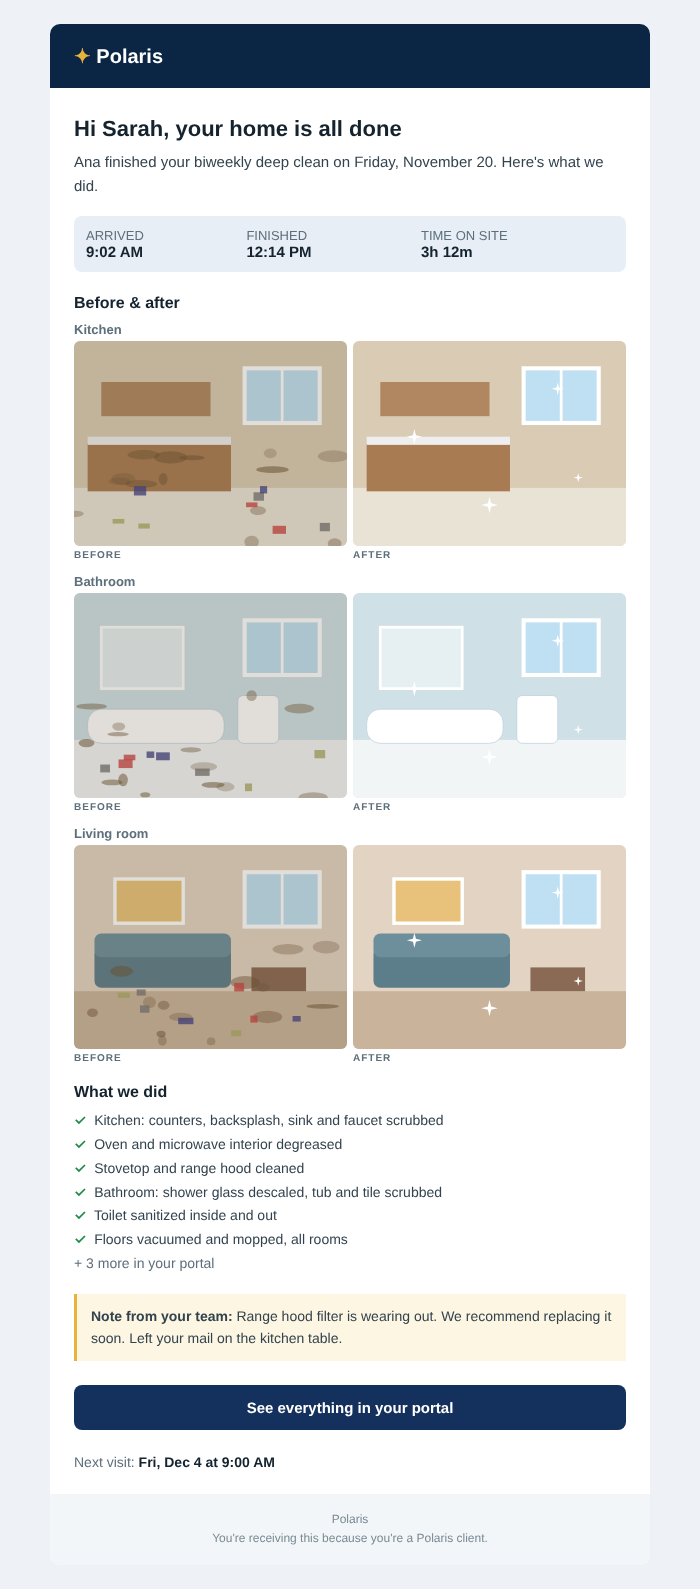
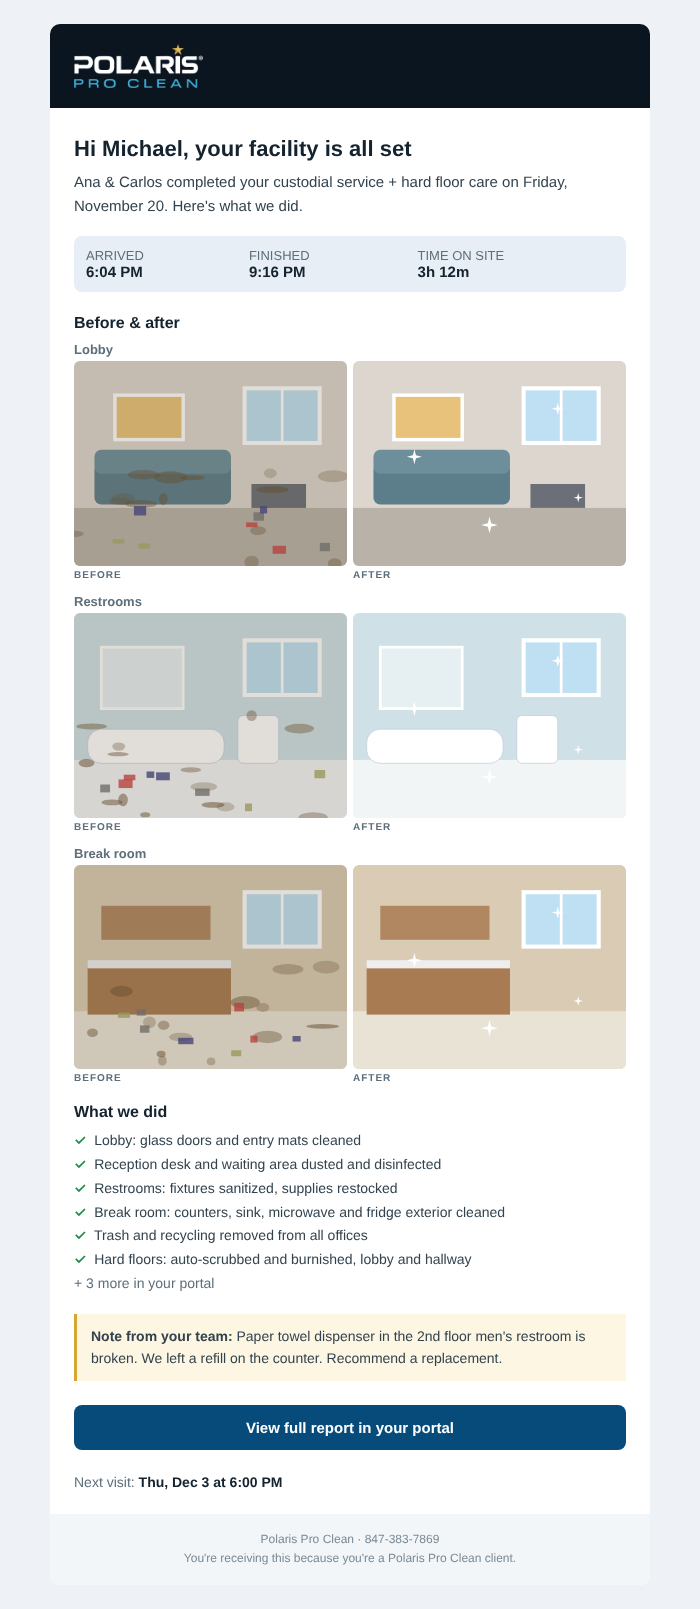
Apply Polaris Pro Clean branding, commercial wording and Chicago time zone
Claude-Session: https://claude.ai/code/session_01B59qdGJ11JK6oNdGcVcDBa

diff --git a/src/lib/demo-data.ts b/src/lib/demo-data.ts
@@ -1,6 +1,7 @@
 import type { PortalData, Photo } from "./types";
 import { sceneUri } from "./demo-scenes";
 
+// Sample commercial client used in demo mode only.
 const photos = (rooms: string[], seed: number): Photo[] =>
   rooms.flatMap((room, i) => [
     { kind: "before" as const, room, url: sceneUri(room, true, seed + i) },
@@ -9,30 +10,30 @@ const photos = (rooms: string[], seed: number): Photo[] =>
 
 export const demoData: PortalData = {
   client: {
-    name: "Sarah Mitchell",
+    name: "Michael Reed · Lakeview Dental Group",
     email: "demo@polaris.example",
-    phone: "(508) 555-0142",
-    address: "84 Pleasant St, Framingham, MA 01701",
-    plan: "Biweekly deep clean",
-    accessNotes: "Lockbox at side door · code on file",
-    preferences: "Unscented products in bedrooms · 1 friendly dog",
-    clientSince: "2025-03-01",
+    phone: "(312) 555-0148",
+    address: "2850 N Clark St, Suite 300, Chicago, IL 60657",
+    plan: "Custodial services · 3x weekly",
+    accessNotes: "Rear entrance, key card #14 · alarm code on file",
+    preferences: "Green-certified products in treatment rooms · do not move items on front desk",
+    clientSince: "2025-04-01",
   },
   visits: [
-    { id: "v7", title: "Biweekly deep clean", status: "scheduled", startsAt: "2026-12-04T14:00:00Z", clockIn: null, clockOut: null, team: "Ana", tasks: [], teamNote: null, photos: [] },
-    { id: "v6", title: "Biweekly deep clean", status: "completed", startsAt: "2026-11-20T14:00:00Z", clockIn: "2026-11-20T14:02:00Z", clockOut: "2026-11-20T17:14:00Z", team: "Ana",
-      tasks: ["Kitchen: counters, backsplash, sink and faucet scrubbed", "Oven and microwave interior degreased", "Stovetop and range hood cleaned", "Bathroom: shower glass descaled, tub and tile scrubbed", "Toilet sanitized inside and out", "Floors vacuumed and mopped, all rooms", "Baseboards dusted, living room", "Beds made with fresh linens (2)", "Trash taken out, bins relined"],
-      teamNote: "Range hood filter is wearing out. We recommend replacing it soon. Left your mail on the kitchen table.",
-      photos: photos(["Kitchen", "Bathroom", "Living room"], 3) },
-    { id: "v5", title: "Biweekly deep clean", status: "completed", startsAt: "2026-11-06T14:00:00Z", clockIn: "2026-11-06T14:00:00Z", clockOut: "2026-11-06T16:48:00Z", team: "Ana",
-      tasks: ["Kitchen counters and sink", "Bathroom full clean", "Floors vacuumed and mopped", "Dusting, all rooms", "Trash out"], teamNote: "All good. Your dog was happy to see us.", photos: photos(["Kitchen", "Bathroom"], 9) },
-    { id: "v4", title: "Deep clean + fridge", status: "completed", startsAt: "2026-10-23T13:00:00Z", clockIn: "2026-10-23T13:10:00Z", clockOut: "2026-10-23T16:30:00Z", team: "Ana",
-      tasks: ["Refrigerator emptied, shelves washed (add-on)", "Kitchen counters and sink", "Bathroom full clean", "Floors vacuumed and mopped", "Windowsills wiped"],
-      teamNote: "Expired items from the fridge are in a bag by the door for you to check.", photos: photos(["Kitchen", "Living room"], 15) },
+    { id: "v7", title: "Custodial service", status: "scheduled", startsAt: "2026-12-04T00:00:00Z", clockIn: null, clockOut: null, team: "Ana & Carlos", tasks: [], teamNote: null, photos: [] },
+    { id: "v6", title: "Custodial service + hard floor care", status: "completed", startsAt: "2026-11-21T00:00:00Z", clockIn: "2026-11-21T00:04:00Z", clockOut: "2026-11-21T03:16:00Z", team: "Ana & Carlos",
+      tasks: ["Lobby: glass doors and entry mats cleaned", "Reception desk and waiting area dusted and disinfected", "Restrooms: fixtures sanitized, supplies restocked", "Break room: counters, sink, microwave and fridge exterior cleaned", "Trash and recycling removed from all offices", "Hard floors: auto-scrubbed and burnished, lobby and hallway", "Carpets vacuumed, offices and conference room", "High-touch points disinfected (handles, switches, elevator buttons)", "Spot cleaning of interior glass partitions"],
+      teamNote: "Paper towel dispenser in the 2nd floor men's restroom is broken. We left a refill on the counter. Recommend a replacement.",
+      photos: photos(["Lobby", "Restrooms", "Break room"], 3) },
+    { id: "v5", title: "Custodial service", status: "completed", startsAt: "2026-11-19T00:00:00Z", clockIn: "2026-11-19T00:01:00Z", clockOut: "2026-11-19T02:40:00Z", team: "Ana & Carlos",
+      tasks: ["Restrooms sanitized and restocked", "Break room cleaned", "Trash and recycling removed", "Carpets vacuumed", "High-touch points disinfected"], teamNote: "All areas completed. No issues.", photos: photos(["Restrooms", "Break room"], 9) },
+    { id: "v4", title: "Carpet extraction", status: "completed", startsAt: "2026-11-15T15:00:00Z", clockIn: "2026-11-15T15:05:00Z", clockOut: "2026-11-15T19:30:00Z", team: "Carlos & Juliana",
+      tasks: ["Hot-water extraction, conference room and 6 offices", "Pre-treatment of stains at entrance", "Furniture moved and returned", "Air movers placed to speed drying"],
+      teamNote: "Carpets will be fully dry in about 4 hours. Stain near the reception desk was reduced by about 90%.", photos: photos(["Lobby"], 15) },
   ],
   invoices: [
-    { id: "i4", number: "1048", subject: "Deep clean · Nov 20", issuedAt: "2026-11-20", dueAt: "2026-12-04", total: 185, balance: 185, status: "awaiting_payment", paymentUrl: null },
-    { id: "i3", number: "1041", subject: "Deep clean · Nov 6", issuedAt: "2026-11-06", dueAt: "2026-11-20", total: 185, balance: 0, status: "paid", paymentUrl: null },
-    { id: "i2", number: "1033", subject: "Deep clean + fridge · Oct 23", issuedAt: "2026-10-23", dueAt: "2026-11-06", total: 230, balance: 0, status: "paid", paymentUrl: null },
+    { id: "i4", number: "1048", subject: "Custodial services · November", issuedAt: "2026-11-30", dueAt: "2026-12-15", total: 2340, balance: 2340, status: "awaiting_payment", paymentUrl: null },
+    { id: "i3", number: "1044", subject: "Carpet extraction · Nov 15", issuedAt: "2026-11-15", dueAt: "2026-11-30", total: 680, balance: 0, status: "paid", paymentUrl: null },
+    { id: "i2", number: "1031", subject: "Custodial services · October", issuedAt: "2026-10-31", dueAt: "2026-11-15", total: 2340, balance: 0, status: "paid", paymentUrl: null },
   ],
 };

diff --git a/src/app/globals.css b/src/app/globals.css
@@ -1,21 +1,21 @@
 :root {
   --bg: #f2f5f9; --surface: #ffffff; --fg: #0f1d2e; --muted: #5a6b7e; --line: #dbe3ec;
-  --navy: #0b2545; --navy-2: #13315c; --accent: #1d4e89; --accent-soft: #e4edf8; --star: #e8b33a;
+  --navy: #0a1520; --navy-2: #102233; --accent: #074b7b; --sky: #62c4ff; --accent-soft: #e3f1fa; --star: #d9a531;
   --ok: #1f8a4c; --ok-soft: #e3f4ea; --warn: #b26a00; --warn-soft: #fdf0dc; --err: #c0392b;
-  --display: "Sora", system-ui, sans-serif; --body: "Inter", system-ui, sans-serif;
+  --display: "Inter", system-ui, sans-serif; --body: "Inter", system-ui, sans-serif;
   color-scheme: light;
 }
 @media (prefers-color-scheme: dark) {
   :root {
     --bg: #08121f; --surface: #0f1d2e; --fg: #e3ebf4; --muted: #93a4b7; --line: #1f3248;
-    --navy: #06152a; --navy-2: #0b2545; --accent: #5b9be0; --accent-soft: #13294a;
+    --navy: #050c13; --navy-2: #0a1520; --accent: #62c4ff; --sky: #62c4ff; --accent-soft: #10283b;
     --ok: #4cc27e; --ok-soft: #133322; --warn: #e7a34a; --warn-soft: #352612; --err: #ff7b6b; color-scheme: dark;
   }
 }
 * { box-sizing: border-box; }
 html, body { margin: 0; }
 body { background: var(--bg); color: var(--fg); font-family: var(--body); font-size: 15px; line-height: 1.5; }
-h1, h2, h3 { font-family: var(--display); margin: 0; letter-spacing: -0.01em; text-wrap: balance; }
+h1, h2, h3 { font-family: var(--display); font-weight: 600; margin: 0; letter-spacing: -0.015em; text-wrap: balance; }
 a { color: var(--accent); }
 button { font: inherit; cursor: pointer; }
 :focus-visible { outline: 2px solid var(--accent); outline-offset: 2px; }
@@ -23,10 +23,13 @@ img { max-width: 100%; }
 .wrap { max-width: 1040px; margin: 0 auto; padding-left: max(16px, env(safe-area-inset-left)); padding-right: max(16px, env(safe-area-inset-right)); }
 
 .brand { display: flex; align-items: center; gap: 10px; font-family: var(--display); font-weight: 700; font-size: 20px; color: inherit; text-decoration: none; }
-.brand small { display: block; font-family: var(--body); font-weight: 500; font-size: 11.5px; letter-spacing: .07em; text-transform: uppercase; opacity: .7; }
+.brand-tag { font-family: var(--body); font-weight: 600; font-size: 11px; letter-spacing: .12em; text-transform: uppercase; color: var(--sky); border-left: 1px solid #ffffff33; padding-left: 12px; }
+@media (max-width: 420px) { .brand-tag { display: none; } }
 
-.auth { min-height: 100vh; display: grid; place-items: center; padding: 40px 16px; background: linear-gradient(160deg, var(--navy) 0 38%, var(--bg) 38%); }
-.auth-card { width: 100%; max-width: 410px; background: var(--surface); border: 1px solid var(--line); border-radius: 16px; padding: 32px 28px; display: grid; gap: 18px; box-shadow: 0 12px 40px #0b254522; }
+.auth { min-height: 100vh; display: grid; place-items: center; padding: 40px 16px; background: radial-gradient(ellipse at 20% 0%, #12304a 0, var(--navy) 60%); }
+.auth-card { width: 100%; max-width: 410px; background: var(--surface); border: 1px solid var(--line); border-radius: 16px; padding: 32px 28px; display: grid; gap: 18px; box-shadow: 0 20px 60px #0008; }
+.auth-logo { display: flex; justify-content: center; padding-bottom: 8px; }
+.auth-logo .brand-tag { display: none; }
 label { display: grid; gap: 6px; font-size: 13px; font-weight: 500; color: var(--muted); }
 input { padding: 11px 12px; border: 1px solid var(--line); border-radius: 9px; background: var(--bg); color: var(--fg); font: inherit; }
 .btn { display: inline-block; text-align: center; text-decoration: none; background: var(--accent); color: #fff; border: 0; border-radius: 9px; padding: 11px 16px; font-weight: 600; }
@@ -37,7 +40,7 @@ input { padding: 11px 12px; border: 1px solid var(--line); border-radius: 9px; b
 .okmsg { color: var(--ok); font-size: 13.5px; margin: 0; }
 .demo-bar { background: var(--star); color: #2a1d00; font-size: 12.5px; text-align: center; padding: 6px 16px; font-weight: 600; }
 
-header.top { background: var(--navy); color: #fff; }
+header.top { background: var(--navy); color: #fff; border-bottom: 1px solid #ffffff14; }
 header.top .wrap { display: flex; align-items: center; justify-content: space-between; gap: 12px; padding-block: 14px; }
 .who { display: flex; align-items: center; gap: 12px; font-size: 14px; }
 @media (max-width: 520px) { .who span { display: none; } }
@@ -77,7 +80,7 @@ footer.foot { color: var(--muted); font-size: 12.5px; padding-block: 0 32px; }
 .ba { position: relative; aspect-ratio: 4/3; max-width: 100%; border-radius: 12px; overflow: hidden; user-select: none; background: var(--line); }
 .ba img { position: absolute; inset: 0; width: 100%; height: 100%; object-fit: cover; }
 .ba .handle { position: absolute; top: 0; bottom: 0; width: 2px; background: #fff; transform: translateX(-1px); pointer-events: none; }
-.ba .handle::after { content: "⇆"; position: absolute; top: 50%; left: 50%; transform: translate(-50%, -50%); width: 34px; height: 34px; border-radius: 50%; background: #fff; color: #0b2545; display: grid; place-items: center; box-shadow: 0 2px 8px #0004; }
+.ba .handle::after { content: "⇆"; position: absolute; top: 50%; left: 50%; transform: translate(-50%, -50%); width: 34px; height: 34px; border-radius: 50%; background: #fff; color: #074b7b; display: grid; place-items: center; box-shadow: 0 2px 8px #0004; }
 .ba .tag { position: absolute; top: 10px; font-size: 11px; font-weight: 700; letter-spacing: .08em; background: #000a; color: #fff; padding: 3px 8px; border-radius: 5px; }
 .ba input { position: absolute; inset: 0; width: 100%; height: 100%; opacity: 0; cursor: ew-resize; margin: 0; }
 .rooms { display: flex; gap: 8px; flex-wrap: wrap; margin-top: 12px; }

diff --git a/src/lib/email.ts b/src/lib/email.ts
@@ -14,7 +14,7 @@ export type EmailVisit = {
 
 /** Table-based HTML so it renders in Gmail, Outlook and Apple Mail. */
 export function visitEmailHtml(v: EmailVisit) {
-  const navy = "#0b2545", accent = "#13315c", star = "#e8b33a";
+  const navy = "#0a1520", accent = "#074b7b", star = "#d9a531";
   const shown = v.tasks.slice(0, 6), more = v.tasks.length - shown.length;
   const pairs = v.pairs.slice(0, 3).map((p) => `
     <tr><td style="padding:0 0 4px;font:600 13px Arial,sans-serif;color:#5d6f7b">${esc(p.room)}</td></tr>
@@ -25,9 +25,9 @@ export function visitEmailHtml(v: EmailVisit) {
   return `<!doctype html><html><body style="margin:0;background:#eef2f6">
 <table width="100%" cellpadding="0" cellspacing="0" style="background:#eef2f6"><tr><td align="center" style="padding:24px 12px">
 <table width="600" cellpadding="0" cellspacing="0" style="max-width:600px;width:100%;background:#ffffff;border-radius:10px;overflow:hidden">
-  <tr><td style="background:${navy};padding:20px 24px;font:700 20px Arial,sans-serif;color:#fff"><span style="color:${star}">&#10022;</span> ${esc(brand.name)}</td></tr>
-  <tr><td style="padding:28px 24px 8px;font:700 22px Arial,sans-serif;color:#14232e">Hi ${esc(v.firstName)}, your home is all done</td></tr>
-  <tr><td style="padding:0 24px 18px;font:15px/1.6 Arial,sans-serif;color:#33434e">${esc(v.team || "Our team")} finished your ${esc(v.title.toLowerCase())} on ${esc(fmtDate(v.startsAt, { weekday: "long", month: "long", day: "numeric" }))}. Here's what we did.</td></tr>
+  <tr><td style="background:${navy};padding:20px 24px"><img src="${siteUrl}/logo-white.png" alt="${esc(brand.name)}" height="44" style="display:block;height:44px;width:auto;border:0"></td></tr>
+  <tr><td style="padding:28px 24px 8px;font:700 22px Arial,sans-serif;color:#14232e">Hi ${esc(v.firstName)}, your facility is all set</td></tr>
+  <tr><td style="padding:0 24px 18px;font:15px/1.6 Arial,sans-serif;color:#33434e">${esc(v.team || "Our team")} completed your ${esc(v.title.toLowerCase())} on ${esc(fmtDate(v.startsAt, { weekday: "long", month: "long", day: "numeric" }))}. Here's what we did.</td></tr>
   <tr><td style="padding:0 24px 22px"><table width="100%" cellpadding="12" cellspacing="0" style="background:#e8eef6;border-radius:8px;font:13px Arial,sans-serif;color:#5d6f7b"><tr>
     <td>ARRIVED<br><b style="font-size:15px;color:#14232e">${fmtTime(v.clockIn)}</b></td>
     <td>FINISHED<br><b style="font-size:15px;color:#14232e">${fmtTime(v.clockOut)}</b></td>
@@ -36,7 +36,7 @@ export function visitEmailHtml(v: EmailVisit) {
   ${shown.length ? `<tr><td style="padding:6px 24px 0;font:700 16px Arial,sans-serif;color:#14232e">What we did</td></tr>
   <tr><td style="padding:8px 24px 0;font:14px/1.7 Arial,sans-serif;color:#33434e">${shown.map((t) => `<span style="color:#1f8a4c;font-weight:700">&#10003;</span>&nbsp; ${esc(t)}`).join("<br>")}${more > 0 ? `<br><span style="color:#5d6f7b">+ ${more} more in your portal</span>` : ""}</td></tr>` : ""}
   ${v.teamNote ? `<tr><td style="padding:18px 24px 0"><div style="background:#fdf6e3;border-left:3px solid ${star};padding:12px 14px;font:14px/1.55 Arial,sans-serif;color:#33434e"><b>Note from your team:</b> ${esc(v.teamNote)}</div></td></tr>` : ""}
-  <tr><td style="padding:24px"><a href="${siteUrl}/portal" style="display:block;background:${accent};color:#fff;text-align:center;font:700 15px Arial,sans-serif;padding:14px;border-radius:8px;text-decoration:none">See everything in your portal</a></td></tr>
+  <tr><td style="padding:24px"><a href="${siteUrl}/portal" style="display:block;background:${accent};color:#fff;text-align:center;font:700 15px Arial,sans-serif;padding:14px;border-radius:8px;text-decoration:none">View full report in your portal</a></td></tr>
   ${v.nextVisit ? `<tr><td style="padding:0 24px 24px;font:14px Arial,sans-serif;color:#5d6f7b">Next visit: <b style="color:#14232e">${esc(fmtDate(v.nextVisit))} at ${fmtTime(v.nextVisit)}</b></td></tr>` : ""}
   <tr><td style="background:#f3f6f8;padding:16px 24px;font:12px/1.6 Arial,sans-serif;color:#7a8a95;text-align:center">${esc(brand.name)}${brand.phone ? " · " + esc(brand.phone) : ""}<br>You're receiving this because you're a ${esc(brand.name)} client.</td></tr>
 </table></td></tr></table></body></html>`;
@@ -54,7 +54,7 @@ export async function sendVisitEmail(visitId: string) {
     if (p.kind === "other") continue;
     const { data } = await db.storage.from("visit-photos").createSignedUrl(p.storage_path, 60 * 60 * 24 * 30);
     if (!data) continue;
-    const key = p.room || "Your home";
+    const key = p.room || "Your facility";
     byRoom.set(key, { ...byRoom.get(key), [p.kind]: data.signedUrl });
   }
   const pairs = [...byRoom].filter(([, x]) => x.before && x.after).map(([room, x]) => ({ room, before: x.before!, after: x.after! }));
@@ -71,7 +71,7 @@ export async function sendVisitEmail(visitId: string) {
   const resend = new Resend(process.env.RESEND_API_KEY);
   const { error } = await resend.emails.send({
     from: process.env.EMAIL_FROM!, to: v.clients.email,
-    subject: `Your home is clean! Visit summary for ${fmtDate(v.starts_at)}`, html,
+    subject: `Service completed: ${fmtDate(v.starts_at)} visit summary`, html,
   });
   if (error) throw new Error("Email failed: " + JSON.stringify(error));
   await db.from("visits").update({ email_sent_at: new Date().toISOString() }).eq("id", visitId);

diff --git a/src/lib/demo-scenes.ts b/src/lib/demo-scenes.ts
@@ -1,16 +1,16 @@
 // Illustrated stand-ins for real photos, used only in demo mode.
 const palettes: Record<string, [string, string, string]> = {
-  Kitchen: ["#d9cbb4", "#a87b52", "#e9e3d6"],
-  Bathroom: ["#cfe0e6", "#7aa0ad", "#f2f5f6"],
-  "Living room": ["#e2d3c3", "#8a6a55", "#c9b39b"],
+  "Break room": ["#d9cbb4", "#a87b52", "#e9e3d6"],
+  Restrooms: ["#cfe0e6", "#7aa0ad", "#f2f5f6"],
+  Lobby: ["#dcd6cf", "#6b6f78", "#b9b2a8"],
 };
 
 export function sceneUri(room: string, dirty: boolean, seed = 1): string {
-  const [wall, wood, floor] = palettes[room] ?? palettes.Kitchen;
+  const [wall, wood, floor] = palettes[room] ?? palettes["Break room"];
   let s = `<rect width="400" height="300" fill="${wall}"/><rect y="215" width="400" height="85" fill="${floor}"/>`;
   s += `<rect x="250" y="40" width="110" height="80" fill="#bfe0f2" stroke="#fff" stroke-width="6"/><line x1="305" y1="40" x2="305" y2="120" stroke="#fff" stroke-width="4"/>`;
-  if (room === "Kitchen") s += `<rect x="20" y="150" width="210" height="70" fill="${wood}"/><rect x="20" y="140" width="210" height="12" fill="#eee"/><rect x="40" y="60" width="160" height="50" fill="${wood}" opacity=".85"/>`;
-  else if (room === "Bathroom") s += `<rect x="20" y="170" width="200" height="50" rx="20" fill="#fff" stroke="#bcd"/><rect x="240" y="150" width="60" height="70" rx="8" fill="#fff" stroke="#bcd"/><rect x="40" y="50" width="120" height="90" fill="#e6f0f3" stroke="#fff" stroke-width="4"/>`;
+  if (room === "Break room") s += `<rect x="20" y="150" width="210" height="70" fill="${wood}"/><rect x="20" y="140" width="210" height="12" fill="#eee"/><rect x="40" y="60" width="160" height="50" fill="${wood}" opacity=".85"/>`;
+  else if (room === "Restrooms") s += `<rect x="20" y="170" width="200" height="50" rx="20" fill="#fff" stroke="#bcd"/><rect x="240" y="150" width="60" height="70" rx="8" fill="#fff" stroke="#bcd"/><rect x="40" y="50" width="120" height="90" fill="#e6f0f3" stroke="#fff" stroke-width="4"/>`;
   else s += `<rect x="30" y="150" width="200" height="60" rx="10" fill="#5c7d8a"/><rect x="30" y="130" width="200" height="35" rx="10" fill="#6d8f9c"/><rect x="260" y="180" width="80" height="35" fill="${wood}"/><rect x="60" y="50" width="100" height="65" fill="#e8c27a" stroke="#fff" stroke-width="5"/>`;
   if (dirty) {
     let r = seed * 9301;

diff --git a/src/app/portal/page.tsx b/src/app/portal/page.tsx
@@ -21,7 +21,7 @@ export default async function Overview() {
         </div>
         <div className="panel"><div className="k">Balance due</div><div className="v">{money(due)}</div>
           <div className="sub">{due > 0 ? <span className="pill warn">{firstDue ? `Due ${fmtDate(firstDue.dueAt!, { month: "short", day: "numeric" })}` : "Open"}</span> : <span className="pill ok">All paid</span>}</div></div>
-        <div className="panel"><div className="k">Your plan</div><div className="v" style={{ fontSize: 19 }}>{client.plan || "Cleaning service"}</div>
+        <div className="panel"><div className="k">Your plan</div><div className="v" style={{ fontSize: 19 }}>{client.plan || "Commercial cleaning"}</div>
           {client.clientSince && <div className="sub">Client since {fmtDate(client.clientSince, { month: "long", year: "numeric" })}</div>}</div>
       </div>
       {last ? (
@@ -39,7 +39,7 @@ export default async function Overview() {
             </div>
           </div>
         </div>
-      ) : <div className="panel empty">After your first visit, the photos and checklist will show up here.</div>}
+      ) : <div className="panel empty">After your first service visit, the photos and checklist will show up here.</div>}
     </>
   );
 }

diff --git a/src/app/login/page.tsx b/src/app/login/page.tsx
@@ -7,13 +7,13 @@ export default async function LoginPage({ searchParams }: { searchParams: Promis
   return (
     <div className="auth">
       <div className="auth-card">
-        <Logo />
-        <div><h1 style={{ fontSize: 22 }}>Sign in</h1><p className="hint">See your visits, before &amp; after photos and account.</p></div>
+        <div className="auth-logo" style={{ background: "var(--navy)", margin: "-32px -28px 0", padding: "24px", borderRadius: "16px 16px 0 0" }}><Logo height={48} /></div>
+        <div><h1 style={{ fontSize: 22 }}>Sign in</h1><p className="hint">Service reports, before &amp; after photos and invoices for your facility.</p></div>
         {signedout && <p className="okmsg">You&apos;re signed out.</p>}
         <LoginForm demo={demoMode} demoEmail={DEMO_EMAIL} demoPassword={DEMO_PASSWORD} />
         {demoMode
           ? <p className="hint">Demo mode with sample data. The login above is filled in.</p>
-          : <p className="hint">New client? Check your email for the invitation from Polaris to set your password.</p>}
+          : <p className="hint">New client? Check your email for the invitation from Polaris Pro Clean to set your password.</p>}
       </div>
     </div>
   );

diff --git a/src/components/Logo.tsx b/src/components/Logo.tsx
@@ -1,15 +1,12 @@
 import { brand } from "@/lib/config";
 
-// Placeholder mark. To use the real Polaris logo, put it at public/logo.png and
-// replace the <svg> below with: <img src="/logo.png" alt="" width={32} height={32} />
-export default function Logo({ size = 30 }: { size?: number }) {
+// Official Polaris Pro Clean logo (white version, for dark backgrounds), from polarisproclean.com.
+export default function Logo({ height = 40 }: { height?: number }) {
   return (
     <span className="brand">
-      <svg width={size} height={size} viewBox="0 0 32 32" aria-hidden="true">
-        <circle cx="16" cy="16" r="15" fill="#0b2545" stroke="#e8b33a" strokeWidth="1.5" />
-        <path d="M16 5l2.2 8.8L27 16l-8.8 2.2L16 27l-2.2-8.8L5 16l8.8-2.2z" fill="#e8b33a" />
-      </svg>
-      <span>{brand.name}<small>{brand.tagline}</small></span>
+      {/* eslint-disable-next-line @next/next/no-img-element */}
+      <img src="/logo-white.png" alt={brand.name} height={height} style={{ height, width: "auto" }} />
+      <small className="brand-tag">{brand.tagline}</small>
     </span>
   );
 }

diff --git a/src/app/layout.tsx b/src/app/layout.tsx
@@ -2,8 +2,8 @@ import type { Metadata } from "next";
 import "./globals.css";
 
 export const metadata: Metadata = {
-  title: "Polaris Client Portal",
-  description: "See your Polaris cleaning visits, before and after photos, and account.",
+  title: "Polaris Pro Clean · Client Portal",
+  description: "See your Polaris Pro Clean service visits, before and after photos, and account.",
   robots: { index: false },
 };
 
@@ -12,7 +12,7 @@ export default function RootLayout({ children }: { children: React.ReactNode }) 
     <html lang="en">
       <head>
         <link rel="preconnect" href="https://fonts.googleapis.com" />
-        <link rel="stylesheet" href="https://fonts.googleapis.com/css2?family=Sora:wght@500;600;700&family=Inter:wght@400;500;600&display=swap" />
+        <link rel="stylesheet" href="https://fonts.googleapis.com/css2?family=Inter:wght@400;500;600;700&display=swap" />
       </head>
       <body>{children}</body>
     </html>

diff --git a/src/components/BeforeAfter.tsx b/src/components/BeforeAfter.tsx
@@ -7,12 +7,12 @@ export default function BeforeAfter({ photos }: { photos: Photo[] }) {
     const m = new Map<string, { before?: string; after?: string }>();
     for (const p of photos) {
       if (p.kind === "other") continue;
-      const k = p.room || "Your home";
+      const k = p.room || "Your facility";
       m.set(k, { ...m.get(k), [p.kind]: p.url });
     }
     return [...m].filter(([, x]) => x.before && x.after).map(([room, x]) => ({ room, before: x.before!, after: x.after! }));
   }, [photos]);
-  const others = photos.filter((p) => p.kind === "other" || !pairs.some((x) => x.room === (p.room || "Your home")));
+  const others = photos.filter((p) => p.kind === "other" || !pairs.some((x) => x.room === (p.room || "Your facility")));
   const [i, setI] = useState(0);
   const [cut, setCut] = useState(50);
 

diff --git a/src/app/set-password/page.tsx b/src/app/set-password/page.tsx
@@ -8,7 +8,7 @@ export default function SetPasswordPage() {
   return (
     <div className="auth">
       <form className="auth-card" action={action}>
-        <Logo />
+        <div className="auth-logo" style={{ background: "var(--navy)", margin: "-32px -28px 0", padding: "24px", borderRadius: "16px 16px 0 0" }}><Logo height={48} /></div>
         <div><h1 style={{ fontSize: 22 }}>Set your password</h1><p className="hint">You&apos;ll use it with your email to sign in.</p></div>
         <label htmlFor="password">New password<input id="password" name="password" type="password" autoComplete="new-password" minLength={8} required /></label>
         <label htmlFor="confirm">Repeat password<input id="confirm" name="confirm" type="password" autoComplete="new-password" minLength={8} required /></label>

diff --git a/src/lib/format.ts b/src/lib/format.ts
@@ -1,6 +1,7 @@
-const TZ = process.env.NEXT_PUBLIC_TIMEZONE || "America/New_York";
+const TZ = process.env.NEXT_PUBLIC_TIMEZONE || "America/Chicago";
+// Date-only values ("2026-12-15") are calendar dates: format them in UTC so they never shift a day.
 export const fmtDate = (iso: string, opts: Intl.DateTimeFormatOptions = { weekday: "short", month: "short", day: "numeric" }) =>
-  new Date(iso).toLocaleDateString("en-US", { timeZone: TZ, ...opts });
+  new Date(iso).toLocaleDateString("en-US", { timeZone: /^\d{4}-\d{2}-\d{2}$/.test(iso) ? "UTC" : TZ, ...opts });
 export const fmtTime = (iso: string | null) =>
   iso ? new Date(iso).toLocaleTimeString("en-US", { timeZone: TZ, hour: "numeric", minute: "2-digit" }) : "—";
 export const duration = (a: string | null, b: string | null) => {

diff --git a/src/app/portal/account/page.tsx b/src/app/portal/account/page.tsx
@@ -4,8 +4,8 @@ import { brand } from "@/lib/config";
 
 export default async function Account() {
   const { client } = (await getPortalData())!;
-  const rows: [string, string][] = [["Name", client.name], ["Email", client.email], ["Phone", client.phone], ["Service address", client.address],
-    ["Plan", client.plan], ["Home access", client.accessNotes], ["Preferences", client.preferences]];
+  const rows: [string, string][] = [["Contact", client.name], ["Email", client.email], ["Phone", client.phone], ["Service address", client.address],
+    ["Service plan", client.plan], ["Site access", client.accessNotes], ["Special instructions", client.preferences]];
   return (
     <>
       <div className="sec-h"><h2>My info</h2></div>
